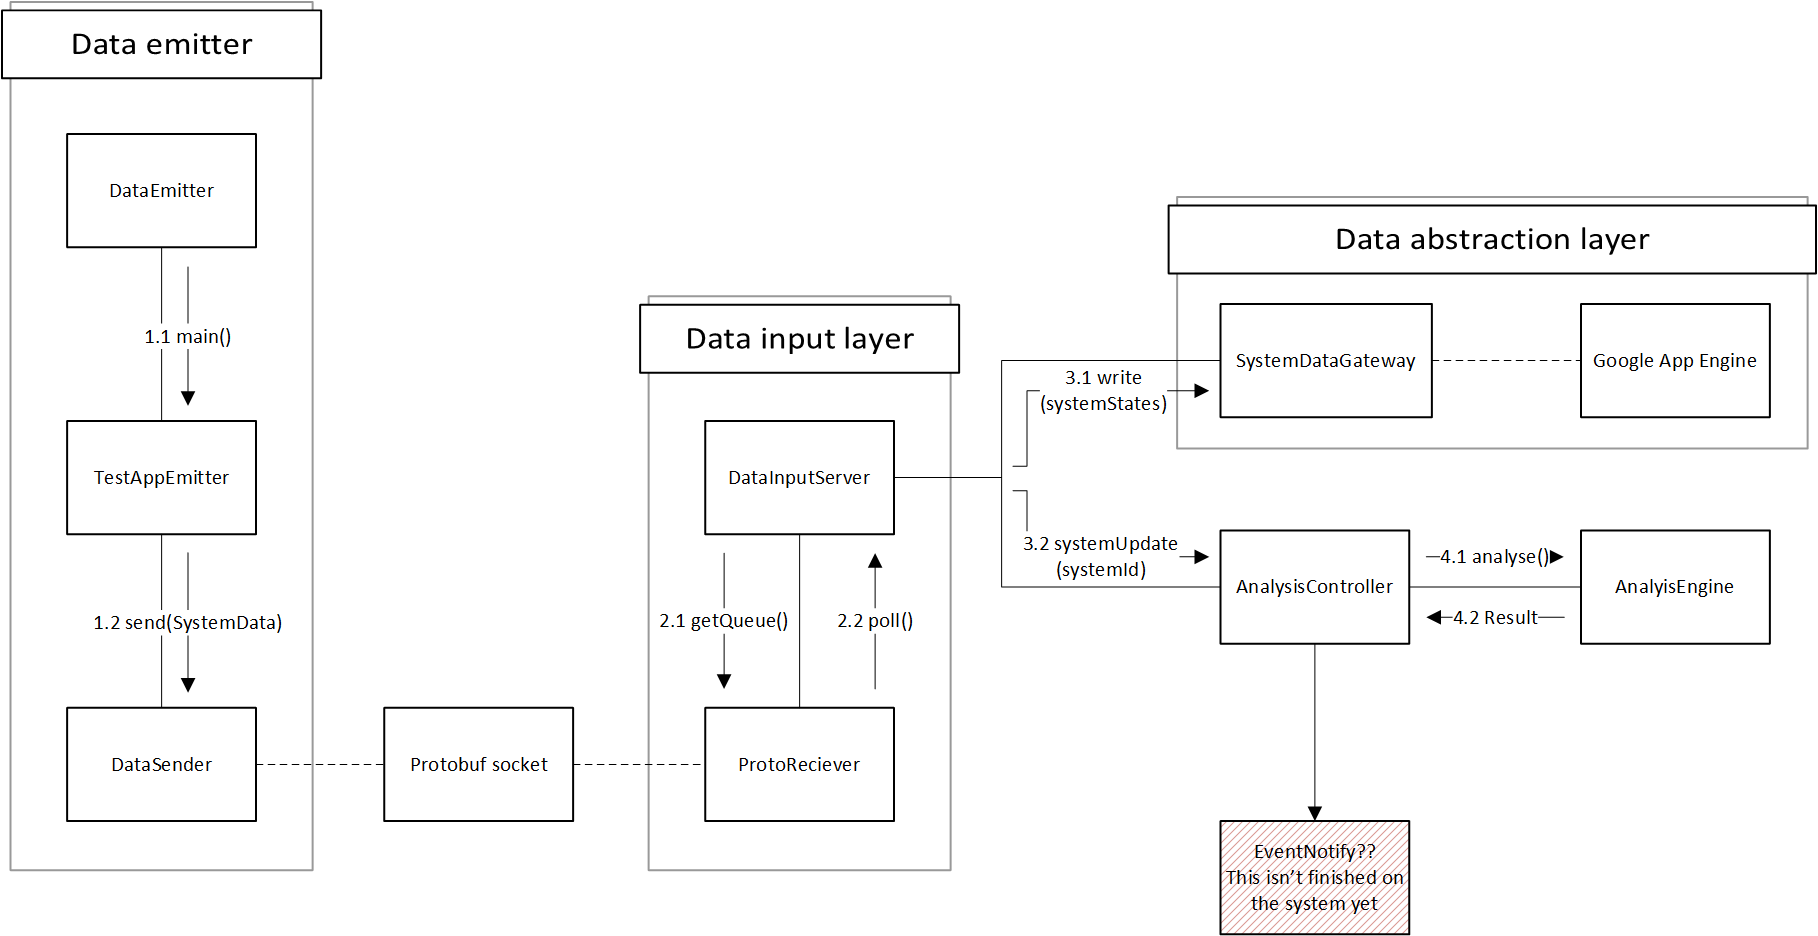
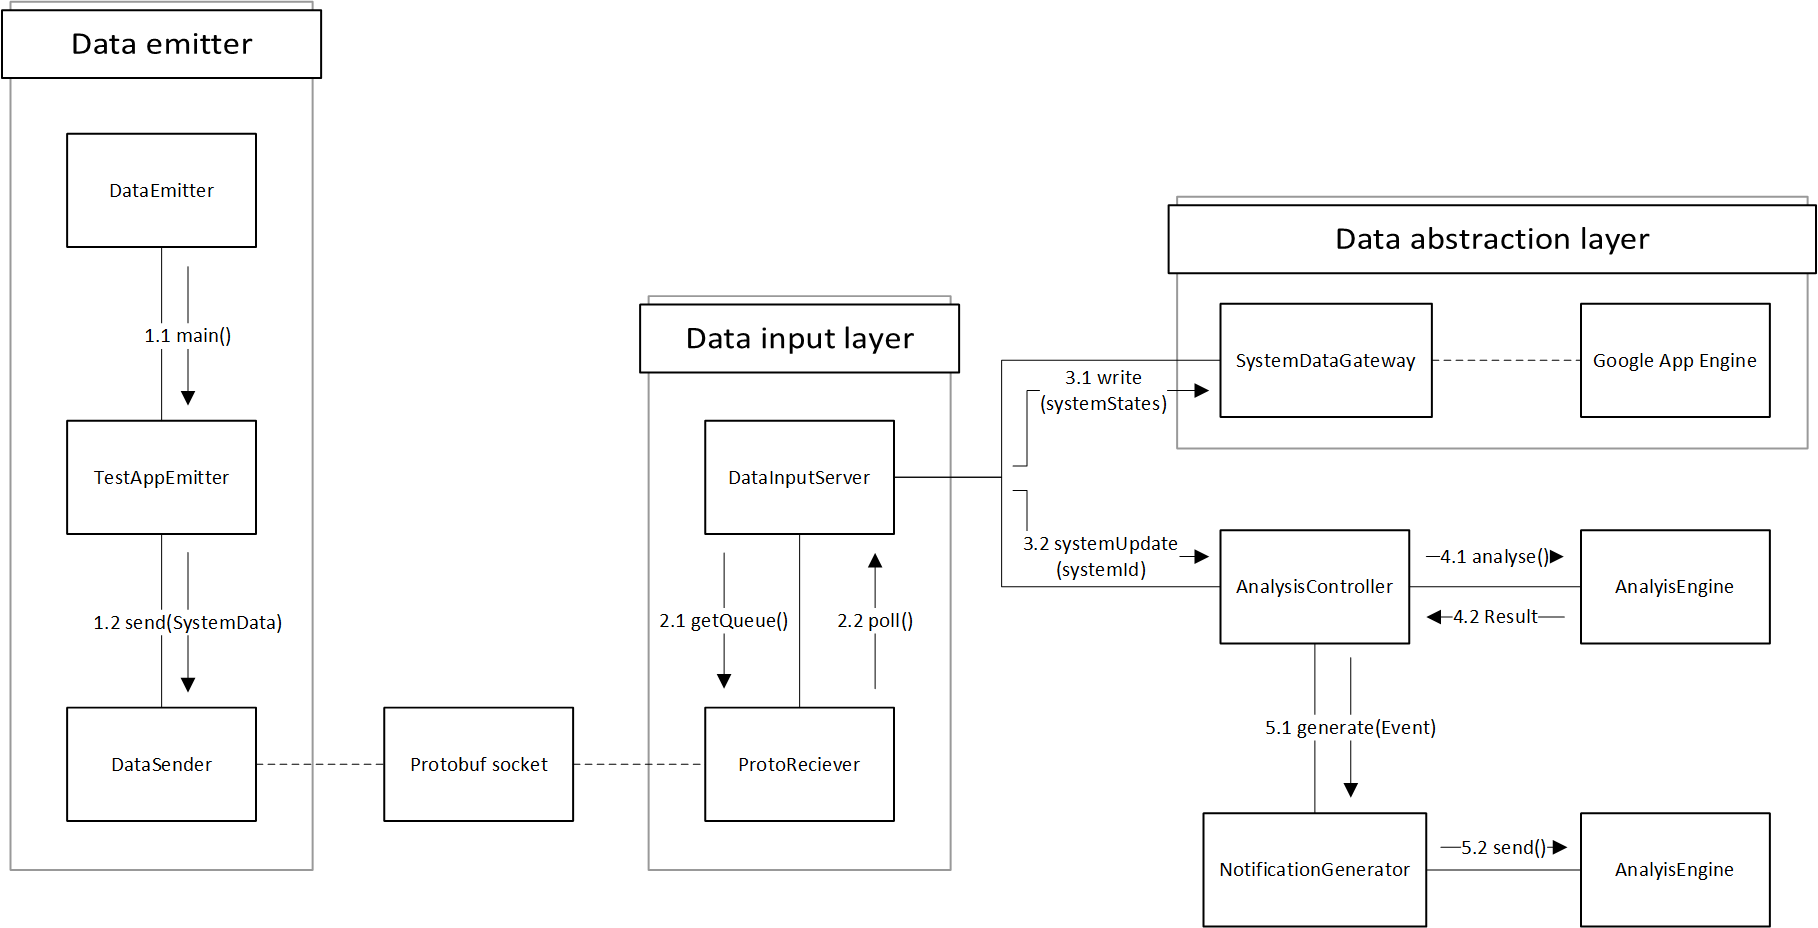
Update communication diagram and centre its caption

diff --git a/docs/second-report/second-report.tex b/docs/second-report/second-report.tex
@@ -12,7 +12,8 @@
 \usepackage{longtable}
 \usepackage{parskip}
 \usepackage{soul}
-\usepackage[small,compact]{titlesec} 
+\usepackage[small,compact]{titlesec}
+\usepackage[justification=centering]{caption}
 
 \definecolor{titleColor}{RGB}{138,201,242}
 \pagestyle{fancy}
@@ -209,11 +210,11 @@ with all the interactions and links between them. The messages sent between
 different parts are shown and labelled with numbers to represent the
 chronological order in which they occur.
 
-\begin{figure}[ht!]
+\begin{figure}[!ht]
   \centering
   \includegraphics[width=14cm]{images/communicationDiagram.png}
-  \caption{Communication diagram showing message flow through the system, using 
-UML 2 notation}
+  \caption{Communication diagram showing a behavioural view of message flow
+through the system, using UML 2 notation}
   \label{fig:communicationDiagram}
 \end{figure}
 
